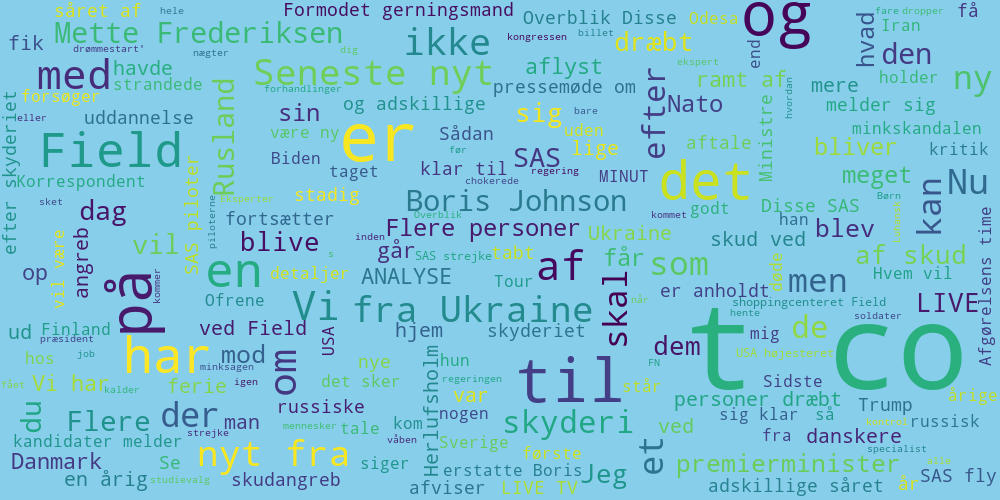
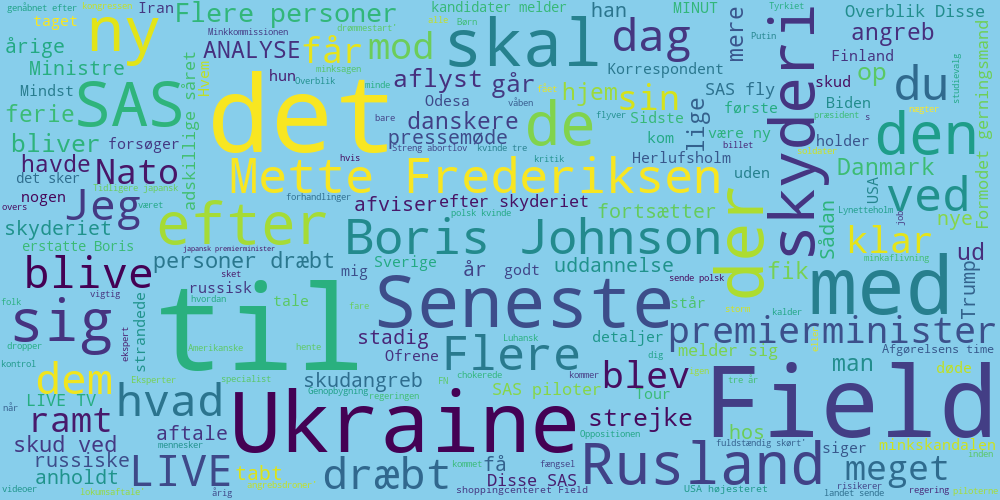
Display in food data has been done remain input button

diff --git a/fooddata/templates/fooddata/allfooddatas.html b/fooddata/templates/fooddata/allfooddatas.html
@@ -116,17 +116,83 @@
 <main>
 
   <section class="py-6 text-center container">
-    <div class="row py-lg-5">
       <div class="col-lg-6 col-md-8 mx-auto">
-        <img class="bd-placeholder-img card-img-top" class= "img-fluid" src= ""/>
+        <!--<img class="bd-placeholder-img card-img-top" class= "img-fluid" src= "", alt="Food CO2 emission"/>-->
         <hr>
         <h1> Food CO2 emission Analytics</h1>
-        <h3> Choose name of the food get the CO2 and energy information! </h3>
+        <h3> What is the carbon footprint of your diet? </h3>
         <hr>        
       </div>
-    </div>
   </section>
+
   
+  <div class="container">
+      <h3> Choose the item to explore detail information</h3>
+      <hr>
+      <div class="py-6 text-center container">
+        <h5>The Food item name with category</h1>
+          
+          <form action="/index.html" method="get">
+            <label for= 'item_list' >Choose your Food item from the list:</label>
+            <input list='item_list' name='item_list' id='item_list'>
+            <datalist id='item_list'>
+              {{ df_rows_list }}
+              {% for item_name in df_rows_list %}
+              <option value={{ item_name }}>
+              {% endfor %}
+            </datalist>
+            <input type="submit">
+          </form>
+          <p><strong>Note:</strong> Choose with dropdown.</p>
+      </div>
+        <hr>
+      <div>
+        <h2>Detail information of the choosen food item </h2>
+        <button onClick="window.location.reload();">Refresh Here to get new item</button> 
+        <br>
+        <table style="width:100%">
+                <tr>
+                  {% for col in name_choosen.columns %}
+                    <th style="white-space:nowrap"> {{col}} </th>              
+                  {% endfor %}
+                </tr>
+                  {% for index, row in name_choosen.iterrows %}
+                    <tr>
+                      {% for cell in row %}
+                        <td> {{cell}} </td>
+                      {% endfor %}
+                    </tr>
+                  {% endfor %}
+              </table>        
+      </div>
+
+      <!-- <div class="col">
+        <section class="py-6 text-center container">
+          
+          <dl>
+            <dt>Food product choosen: {{ name_choosen.Product_en.values }} </dt> 
+            <dt>Food category releted to: {{ name_choosen.Category_en.values }}</dt>
+            <dt>Total CO2 emission contribution: {{ name_choosen.Total_CO2_eq_perkg.values }}</dt>
+              <dd>- Agriculture= {{ name_choosen.Agriculture.values }},</dd>
+              <dd>- iLUC= {{ name_choosen.iLUC.values }},</dt>
+              <dd>- Processing = {{ name_choosen.Processing.values }},</dd>
+              <dd>- Packaging = {{ name_choosen.Packaging.values }},</dd>
+              <dd>- Transport = {{ name_choosen.Transport.values }},</dd>
+              <dd>- Retail = {{ name_choosen.Retail.values }}</dd>
+            <dt>Total Energy_KJ: {{ name_choosen.Energy_KJ.values }}</dt>
+              <dd>Fat amount = {{ name_choosen.Fat_g.values }},</dd>
+              <dd>Carb amount = {{ name_choosen.Carb_g.values }},</dd>
+              <dd>Protein amount = {{ name_choosen.Protein_g.values }}</dd>
+          </dl> 
+        </section>
+          
+        <div class="card-body">
+        
+        </div>
+      </div> -->
+  </div>
+  <hr>
+
 
   <div class="album py-6 bg-light">
     <div class="container">
@@ -185,29 +251,7 @@
       </div>
     </div>
     <hr>
-
-
-    <div class="container">
-      <div class="row">
-        <h3> Display detail CO2 and Energy info of the indivisual food item </h3>
-        <hr>
-        
-          <div class="col">
-            <a> <h5 class="card-text"> </h5> </a>
-            <div class="card-body">
-              {{ item_foodinfo }}
-              <a> <img class="bd-placeholder-img card-img-top" class= "img-fluid" src="{% static 'selected_foodinfo_toshow.png' %}" alt="Detail information of selected food item" width=500 height=auto /> </a>
-            
-              <div class="btn-group">
-                <button type="button" class="btn btn-sm btn-outline-secondary">Click image</button>
-              </div>
-            </div>
-          </div>
-
-      </div>
-    </div>
-    <hr>
-    
+   
 
   </div>
 

diff --git a/fooddata/templates/fooddata/index.html b/fooddata/templates/fooddata/index.html
@@ -1,0 +1,1 @@
+<h2>Index page</h2>

diff --git a/fooddata/datavis.py b/fooddata/datavis.py
@@ -12,11 +12,11 @@ from colorama import Fore, Back, Style
 # Import data
 def datareader(data_link):
     # Loading the data into the data-frame
-    col_names= ["id", "Product_dk", "Category_dk", "Product_en", "Category_en", "Unit", "Agriculture", "iLUC", "Processing", "Packaging", "Transport", "Retail", "Total_CO2_eq/kg", "Energy_KJ", "Fat_g", "Carb_g", "Protein_g", "Data_Source", "Comments", "GPC_Level4_en", "ID_Food", "ID_Pack", "ID_Retail", "GPC_Category_en", "GPC_Category_dk", "GPC_Level4_dk", "product_type", "GPC_level1", "Food_group", "GPC_level2", "Un/Processed", "GPC_Level3", "Extra_category"]
+    col_names= ["id", "Product_dk", "Category_dk", "Product_en", "Category_en", "Unit", "Agriculture", "iLUC", "Processing", "Packaging", "Transport", "Retail", "Total_CO2_eq_perkg", "Energy_KJ", "Fat_g", "Carb_g", "Protein_g", "Data_Source", "Comments", "GPC_Level4_en", "ID_Food", "ID_Pack", "ID_Retail", "GPC_Category_en", "GPC_Category_dk", "GPC_Level4_dk", "product_type", "GPC_level1", "Food_group", "GPC_level2", "Un/Processed", "GPC_Level3", "Extra_category"]
     # Read data with Pandas as Excel.
     # Original columns name are replaced with ralavant names (col_names)
     data= pd.read_excel(data_link, sheet_name=1, index_col=False, header=None, skiprows=1, names= col_names).round(decimals = 2)
-    cols_to_use= ["Product_en", "Category_en", "Agriculture", "iLUC", "Processing", "Packaging", "Transport", "Retail", "Total_CO2_eq/kg", "Energy_KJ", "Fat_g", "Carb_g", "Protein_g"]
+    cols_to_use= ["Product_en", "Category_en", "Agriculture", "iLUC", "Processing", "Packaging", "Transport", "Retail", "Total_CO2_eq_perkg", "Energy_KJ", "Fat_g", "Carb_g", "Protein_g"]
     selected_data= data.loc[:, cols_to_use].round(decimals = 2)
     # I could not change or replace NaN value with replace() or fillna() method, which i would like to replace with 3.5 and 13.0. So i use inefficient method.
     selected_data["Carb_g"].iloc[49:50]= 3.5
@@ -33,13 +33,13 @@ def datareader(data_link):
     to_drop= [to_drop1[0], to_drop2[0]]
     selected_dropped_data= selected_data.drop(labels=to_drop, inplace=False)
 
-    #df_with_category=selected_dropped_data[['Category_en', 'Agriculture', 'iLUC', 'Processing',	'Packaging',	'Transport',	'Retail', 'Total_CO2_eq/kg']].groupby(by= ['Category_en'], sort=True).mean().sort_values(by=['Total_CO2_eq/kg'], ascending=False).round(decimals = 2)
+    #df_with_category=selected_dropped_data[['Category_en', 'Agriculture', 'iLUC', 'Processing',	'Packaging',	'Transport',	'Retail', 'Total_CO2_eq_perkg']].groupby(by= ['Category_en'], sort=True).mean().sort_values(by=['Total_CO2_eq/kg'], ascending=False).round(decimals = 2)
     return selected_dropped_data
 
 
 def co2_data_plot(selected_dropped_data):
     # Group some of the elements from columns with categorical data
-    df_with_category= selected_dropped_data[['Category_en', 'Agriculture', 'iLUC', 'Processing',	'Packaging',	'Transport',	'Retail', 'Total_CO2_eq/kg']].groupby(by= ['Category_en'], sort=True).mean().sort_values(by=['Total_CO2_eq/kg'], ascending=False).round(decimals = 2)
+    df_with_category= selected_dropped_data[['Category_en', 'Agriculture', 'iLUC', 'Processing',	'Packaging',	'Transport',	'Retail', 'Total_CO2_eq_perkg']].groupby(by= ['Category_en'], sort=True).mean().sort_values(by=['Total_CO2_eq_perkg'], ascending=False).round(decimals = 2)
     
     # Stacked bar plot
     rows= selected_dropped_data.shape[0]
@@ -60,7 +60,7 @@ def co2_data_plot(selected_dropped_data):
     plt.close() 
 
 
-def selected_foodinfo(selected_dropped_data):
+"""def selected_foodinfo(selected_dropped_data):
     name_choosen =  selected_dropped_data.sample().reset_index(drop=True)
 
     def block():
@@ -69,7 +69,7 @@ def selected_foodinfo(selected_dropped_data):
         print("." * 40) 
         print(Fore.RED + f'Food category releted to: \t{name_choosen._get_value(0, "Category_en")}')
         print("." * 40)
-        print(Fore.GREEN + f'Total CO2 emission contribution:\t{name_choosen._get_value(0, "Total_CO2_eq/kg")}')
+        print(Fore.GREEN + f'Total CO2 emission contribution:\t{name_choosen._get_value(0, "Total_CO2_eq_perkg")}')
         print(Style.RESET_ALL)
         print(f'\t Agriculture = {name_choosen._get_value(0, "Agriculture")}, \n\t iLUC = {name_choosen._get_value(0, "iLUC")}, \n\t Processing = {name_choosen._get_value(0, "Processing")}, \n\t Packaging = {name_choosen._get_value(0, "Packaging")}, \n\t Transport = {name_choosen._get_value(0, "Transport")}, \n\t Retail = {name_choosen._get_value(0, "Retail")}')
         print("." * 40)
@@ -77,4 +77,4 @@ def selected_foodinfo(selected_dropped_data):
         print(Style.RESET_ALL)
         print(f'\t Fat amount = {name_choosen._get_value(0, "Fat_g")}, \n\t Carb amount = {name_choosen._get_value(0, "Carb_g")}, \n\t Protein amount = {name_choosen._get_value(0, "Protein_g")}')
         print("*" * 60)
-    return block()
+    return block()"""

diff --git a/fooddata/views.py b/fooddata/views.py
@@ -4,13 +4,15 @@ from .data import *
 
 import glob
 from openpyxl import load_workbook
+from itables import init_notebook_mode
+init_notebook_mode(all_interactive=True)
 
 # Create your views here.
 
 def allfooddatas(request):
     #Lets use function to read data
     data_link = "https://github.com/mrchapagain/FoodClimateAnalytics/raw/main/ClimateData.xlsx" # glob.glob(path + '*.xlsx')
-    allfooddatas= datareader(data_link).sort_values(by=['Total_CO2_eq/kg'], ascending=False).round(decimals = 2)
+    allfooddatas= datareader(data_link).sort_values(by=['Total_CO2_eq_perkg'], ascending=False).round(decimals = 2)
 
     # Rows of the 5 higest and 5 least CO2 contributor
     top10_fooddatas= allfooddatas.tail(5).append(allfooddatas.head(5))
@@ -19,6 +21,8 @@ def allfooddatas(request):
     co2_foodplots= co2_data_plot(allfooddatas)
 
     # Lets use function to display detail food info of indivisual item
-    item_foodinfo= print(selected_foodinfo(allfooddatas))
+    #item_foodinfo= print(selected_foodinfo(allfooddatas))
+    df_rows_list= allfooddatas.Product_en.tolist()
+    name_choosen =  allfooddatas.sample().reset_index(drop=True)
 
-    return render(request, 'fooddata/allfooddatas.html', {'top10_fooddatas': top10_fooddatas, 'co2_foodplots': co2_foodplots, 'item_foodinfo': item_foodinfo})
+    return render(request, 'fooddata/allfooddatas.html', {'allfooddatas': allfooddatas, 'top10_fooddatas': top10_fooddatas, 'co2_foodplots': co2_foodplots, 'df_rows_list': df_rows_list, 'name_choosen':name_choosen}) #'item_foodinfo': item_foodinfo

diff --git a/analytics/classifier.py b/analytics/classifier.py
@@ -17,7 +17,8 @@ from nltk.stem.snowball import SnowballStemmer
 def wordcloud_plot(df_col):
       # Create stopword list
       stopwords = set(STOPWORDS)
-      stopwords.update(['https'])
+      stopwords.update(['https', 'er', 'og', 't', 'co', 'en', 'før', 'fra', 'se', 'har', 'vil', 'nyt', 'end', 
+      'kan', 'så', 'på', 'som', 'nu', 'ikke', 'men', 'om', 'vi', 'et', 'af', 'var'])
       plt.figure()
       allWords= ' '.join( [twts for twts in df_col] )
       wordcloud = WordCloud(stopwords=stopwords, width= 1000, height=500, random_state=21, max_font_size= 119, background_color="skyblue").generate(allWords)

diff --git a/analytics/views.py b/analytics/views.py
@@ -4,6 +4,8 @@ from .classifier import *
 from job.models import Job
 from blog.models import Blog
 from django.shortcuts import HttpResponse
+from itables import init_notebook_mode
+init_notebook_mode(all_interactive=True)
 
 # Create your views here.
 def  allanalytics(request):
